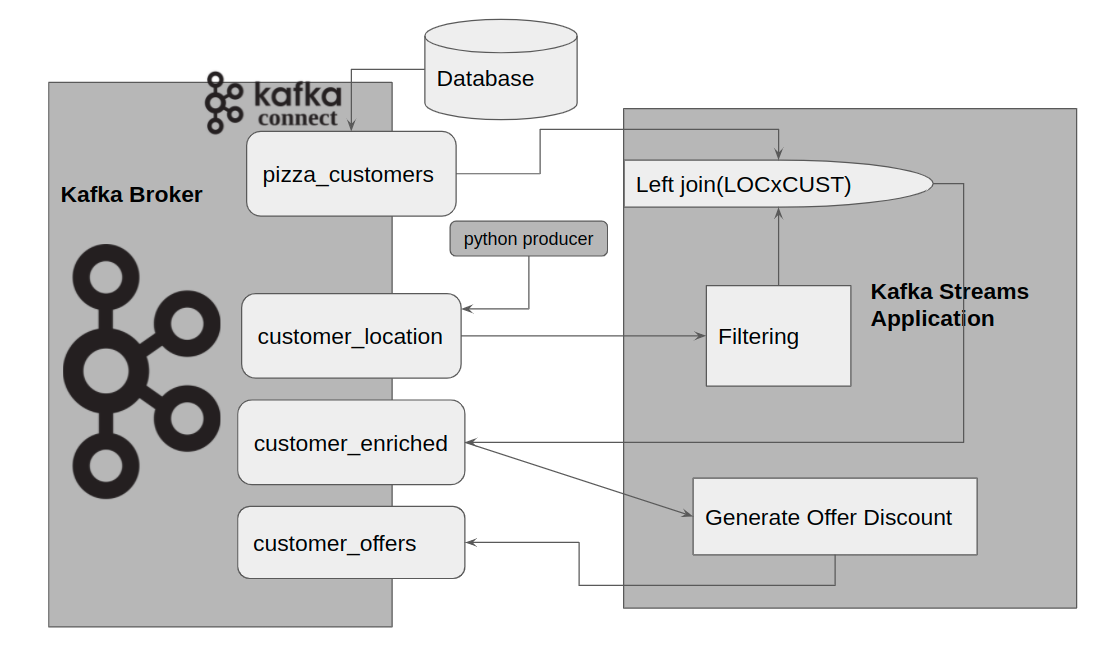
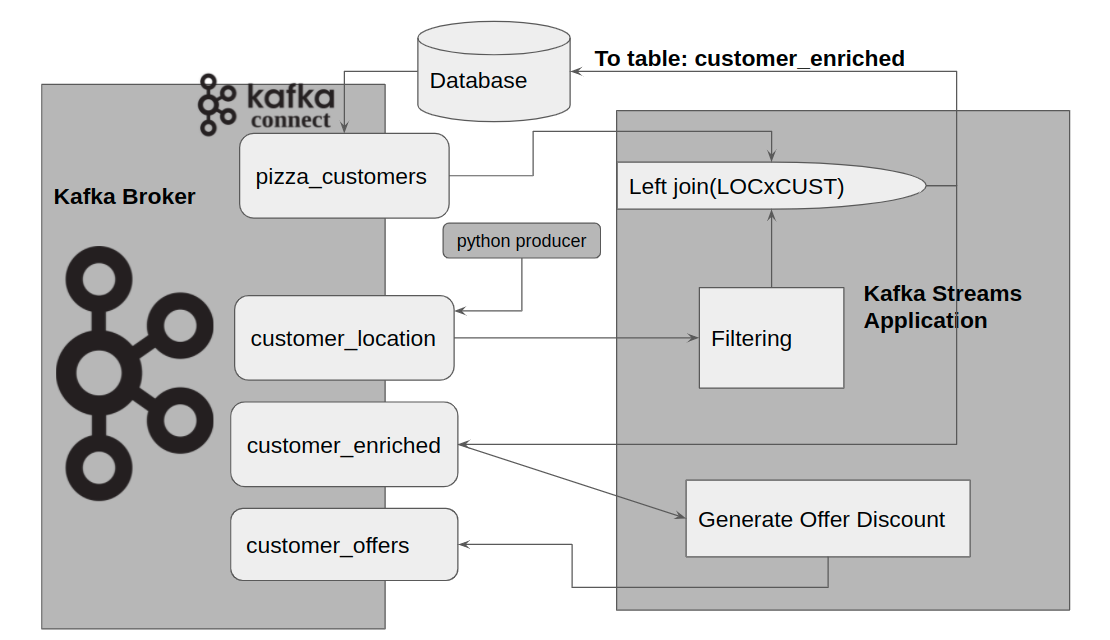
arch. image, table name updated

Changed region(s): [[0.0306, 0.0312, 0.9802, 1.0], [0.4901, 0.8125, 0.5207, 0.9062]]

diff --git a/src/main/java/com/example/kf/demo/StreamsApp.java b/src/main/java/com/example/kf/demo/StreamsApp.java
@@ -100,12 +100,15 @@ public class StreamsApp {
                             location.setAnnualIncome(customer.getAnnualIncome());
                             location.setSpendingScore(customer.getSpendingScore());
                             location.setGender(customer.getGender());
-
-                            CustomerEntity customerEntity = new CustomerEntity();
-                            BeanUtils.copyProperties(location, customerEntity);
-                            customerEntity.setLastSeenRegion(location.getRegion());
-                            customer.setUpdateTime(new Timestamp(System.currentTimeMillis()).toString());
-                            customerRepository.save(customerEntity);
+                            try {
+                                CustomerEntity customerEntity = new CustomerEntity();
+                                BeanUtils.copyProperties(location, customerEntity);
+                                customerEntity.setLastSeenRegion(location.getRegion());
+                                customerEntity.setUpdateTime(new Timestamp(System.currentTimeMillis()).toString());
+                                customerRepository.save(customerEntity);
+                            }catch (Exception ex){
+                                logger.error("Exception occurred while saving entity {}",location,ex);
+                            }
                             return location;
                         })
                     .to("customer-enriched",Produced.with(Serdes.String(), CustomerSerde.customerLocationSerde()));

diff --git a/src/main/java/com/example/kf/demo/schema/h2/CustomerEntity.java b/src/main/java/com/example/kf/demo/schema/h2/CustomerEntity.java
@@ -9,7 +9,7 @@ import lombok.Setter;
 import javax.persistence.*;
 
 @Entity
-@Table(name = "customer_location")
+@Table(name = "customer_enriched")
 @Getter @Setter @AllArgsConstructor @NoArgsConstructor
 public class CustomerEntity {
 
